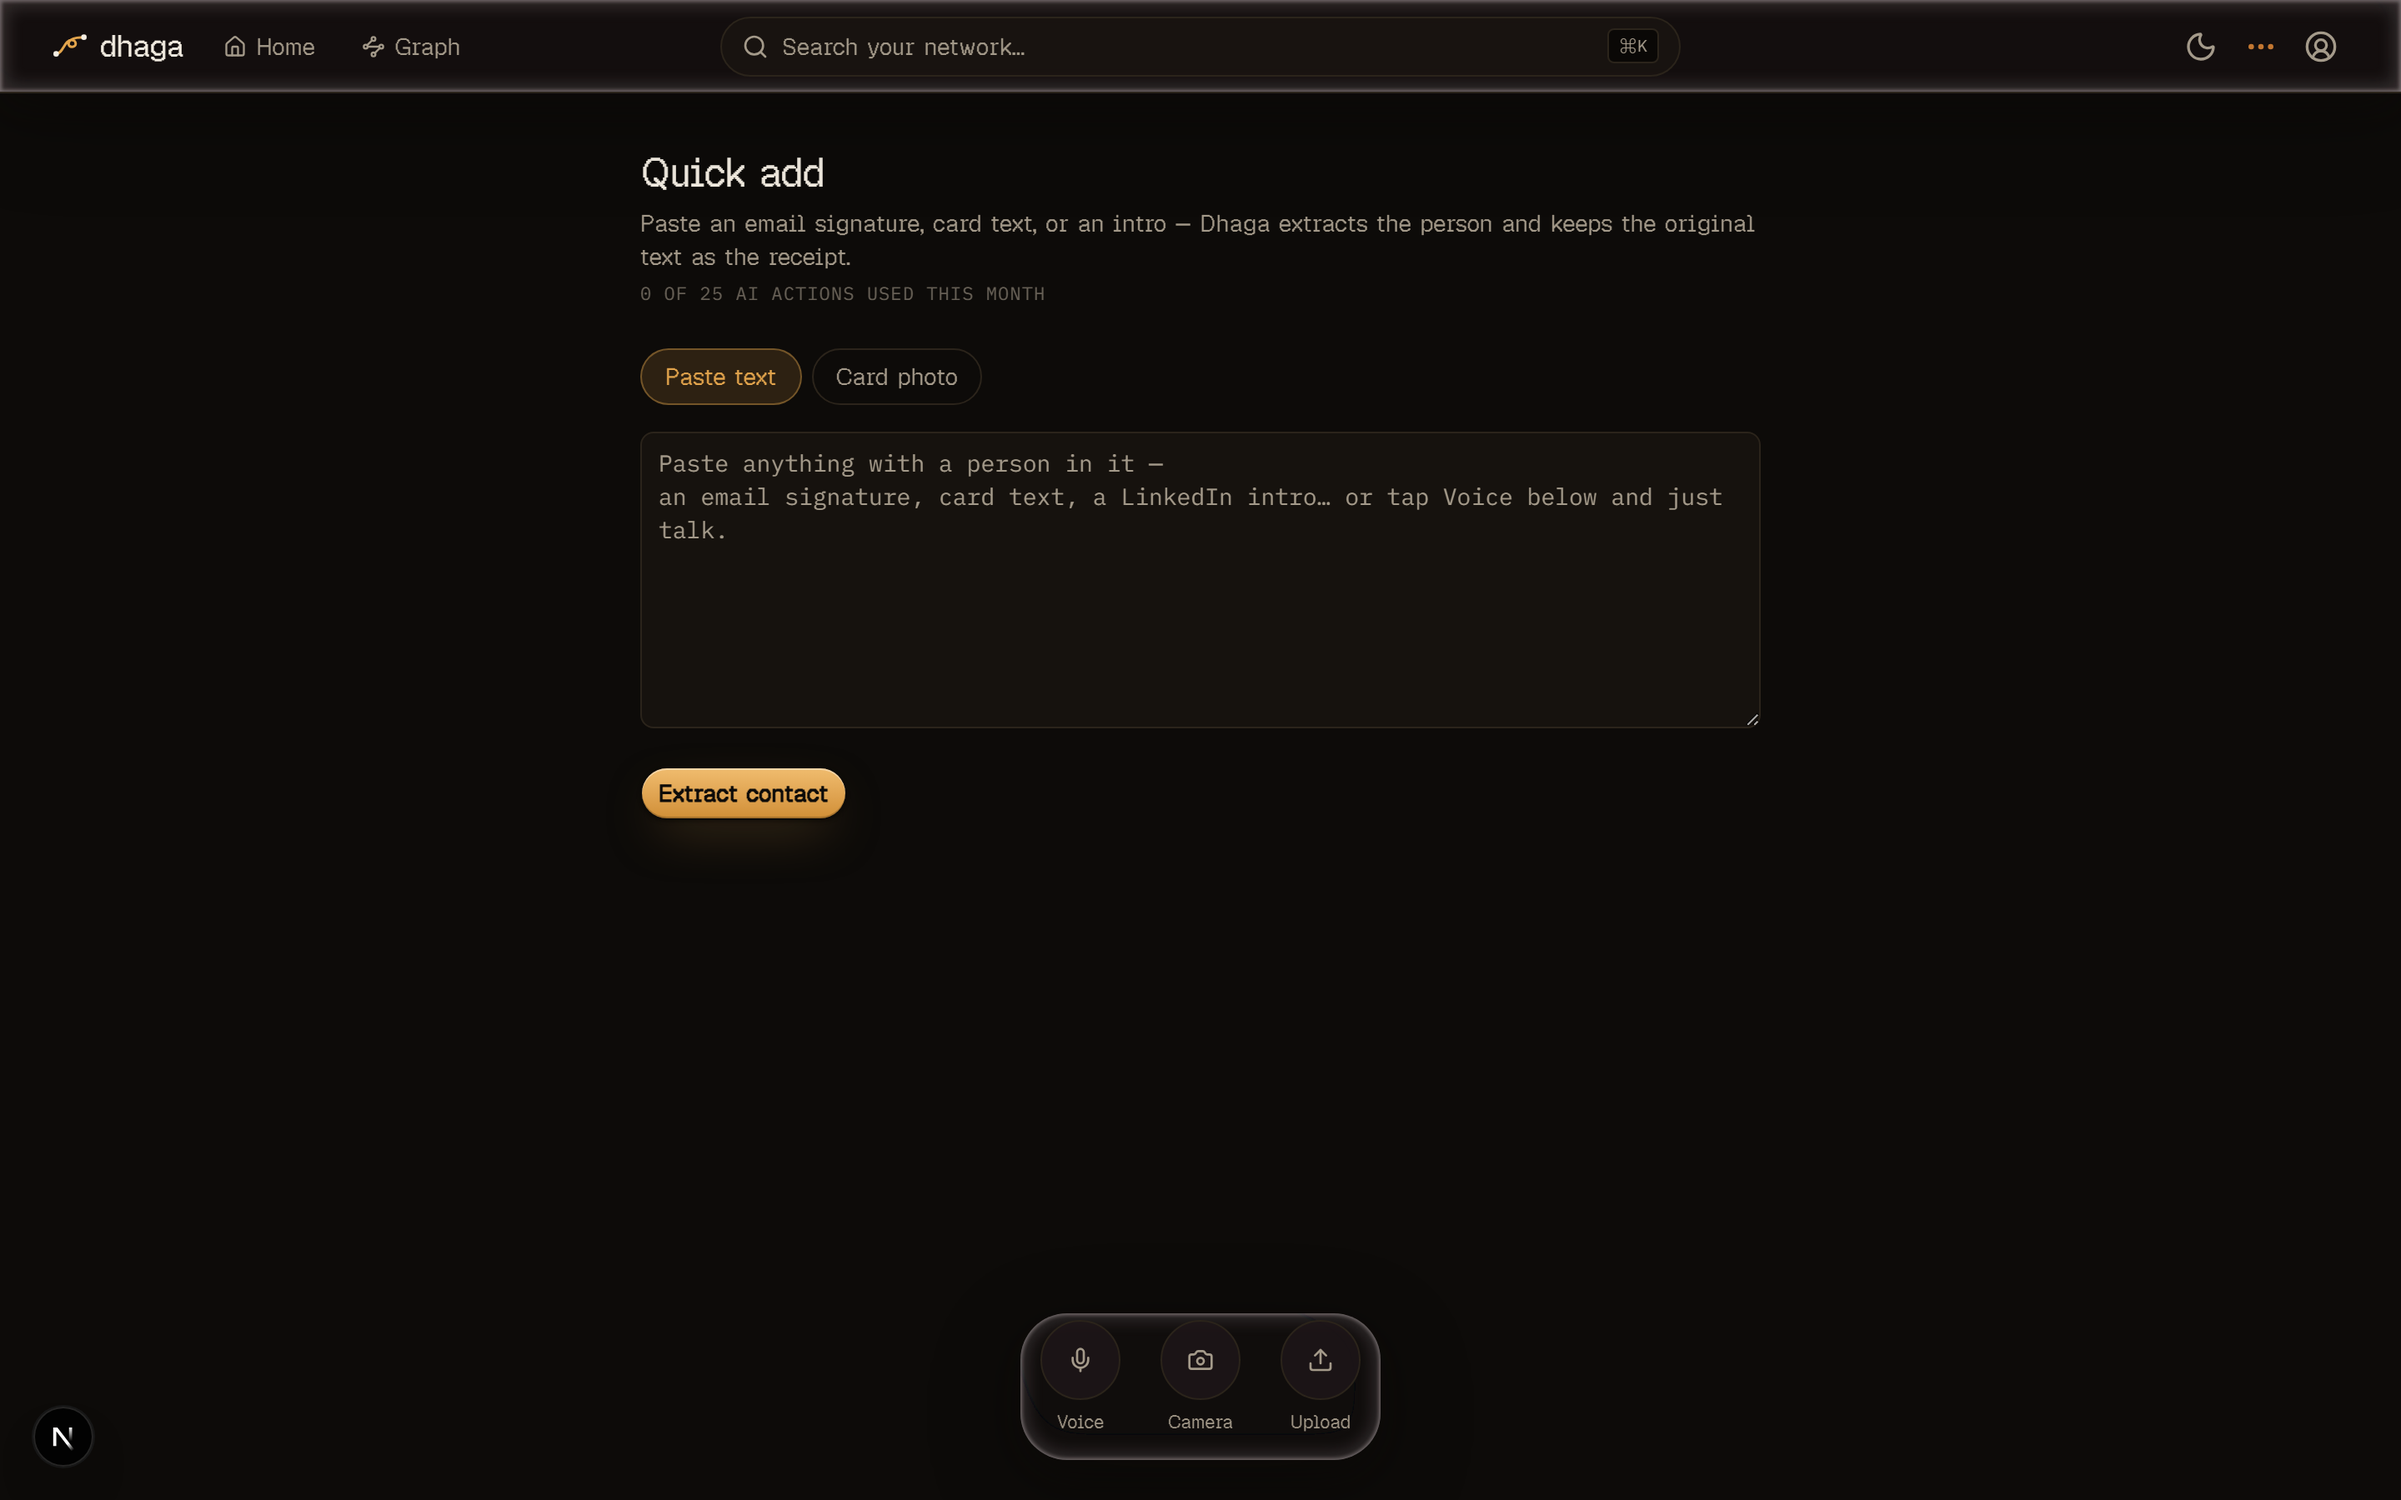
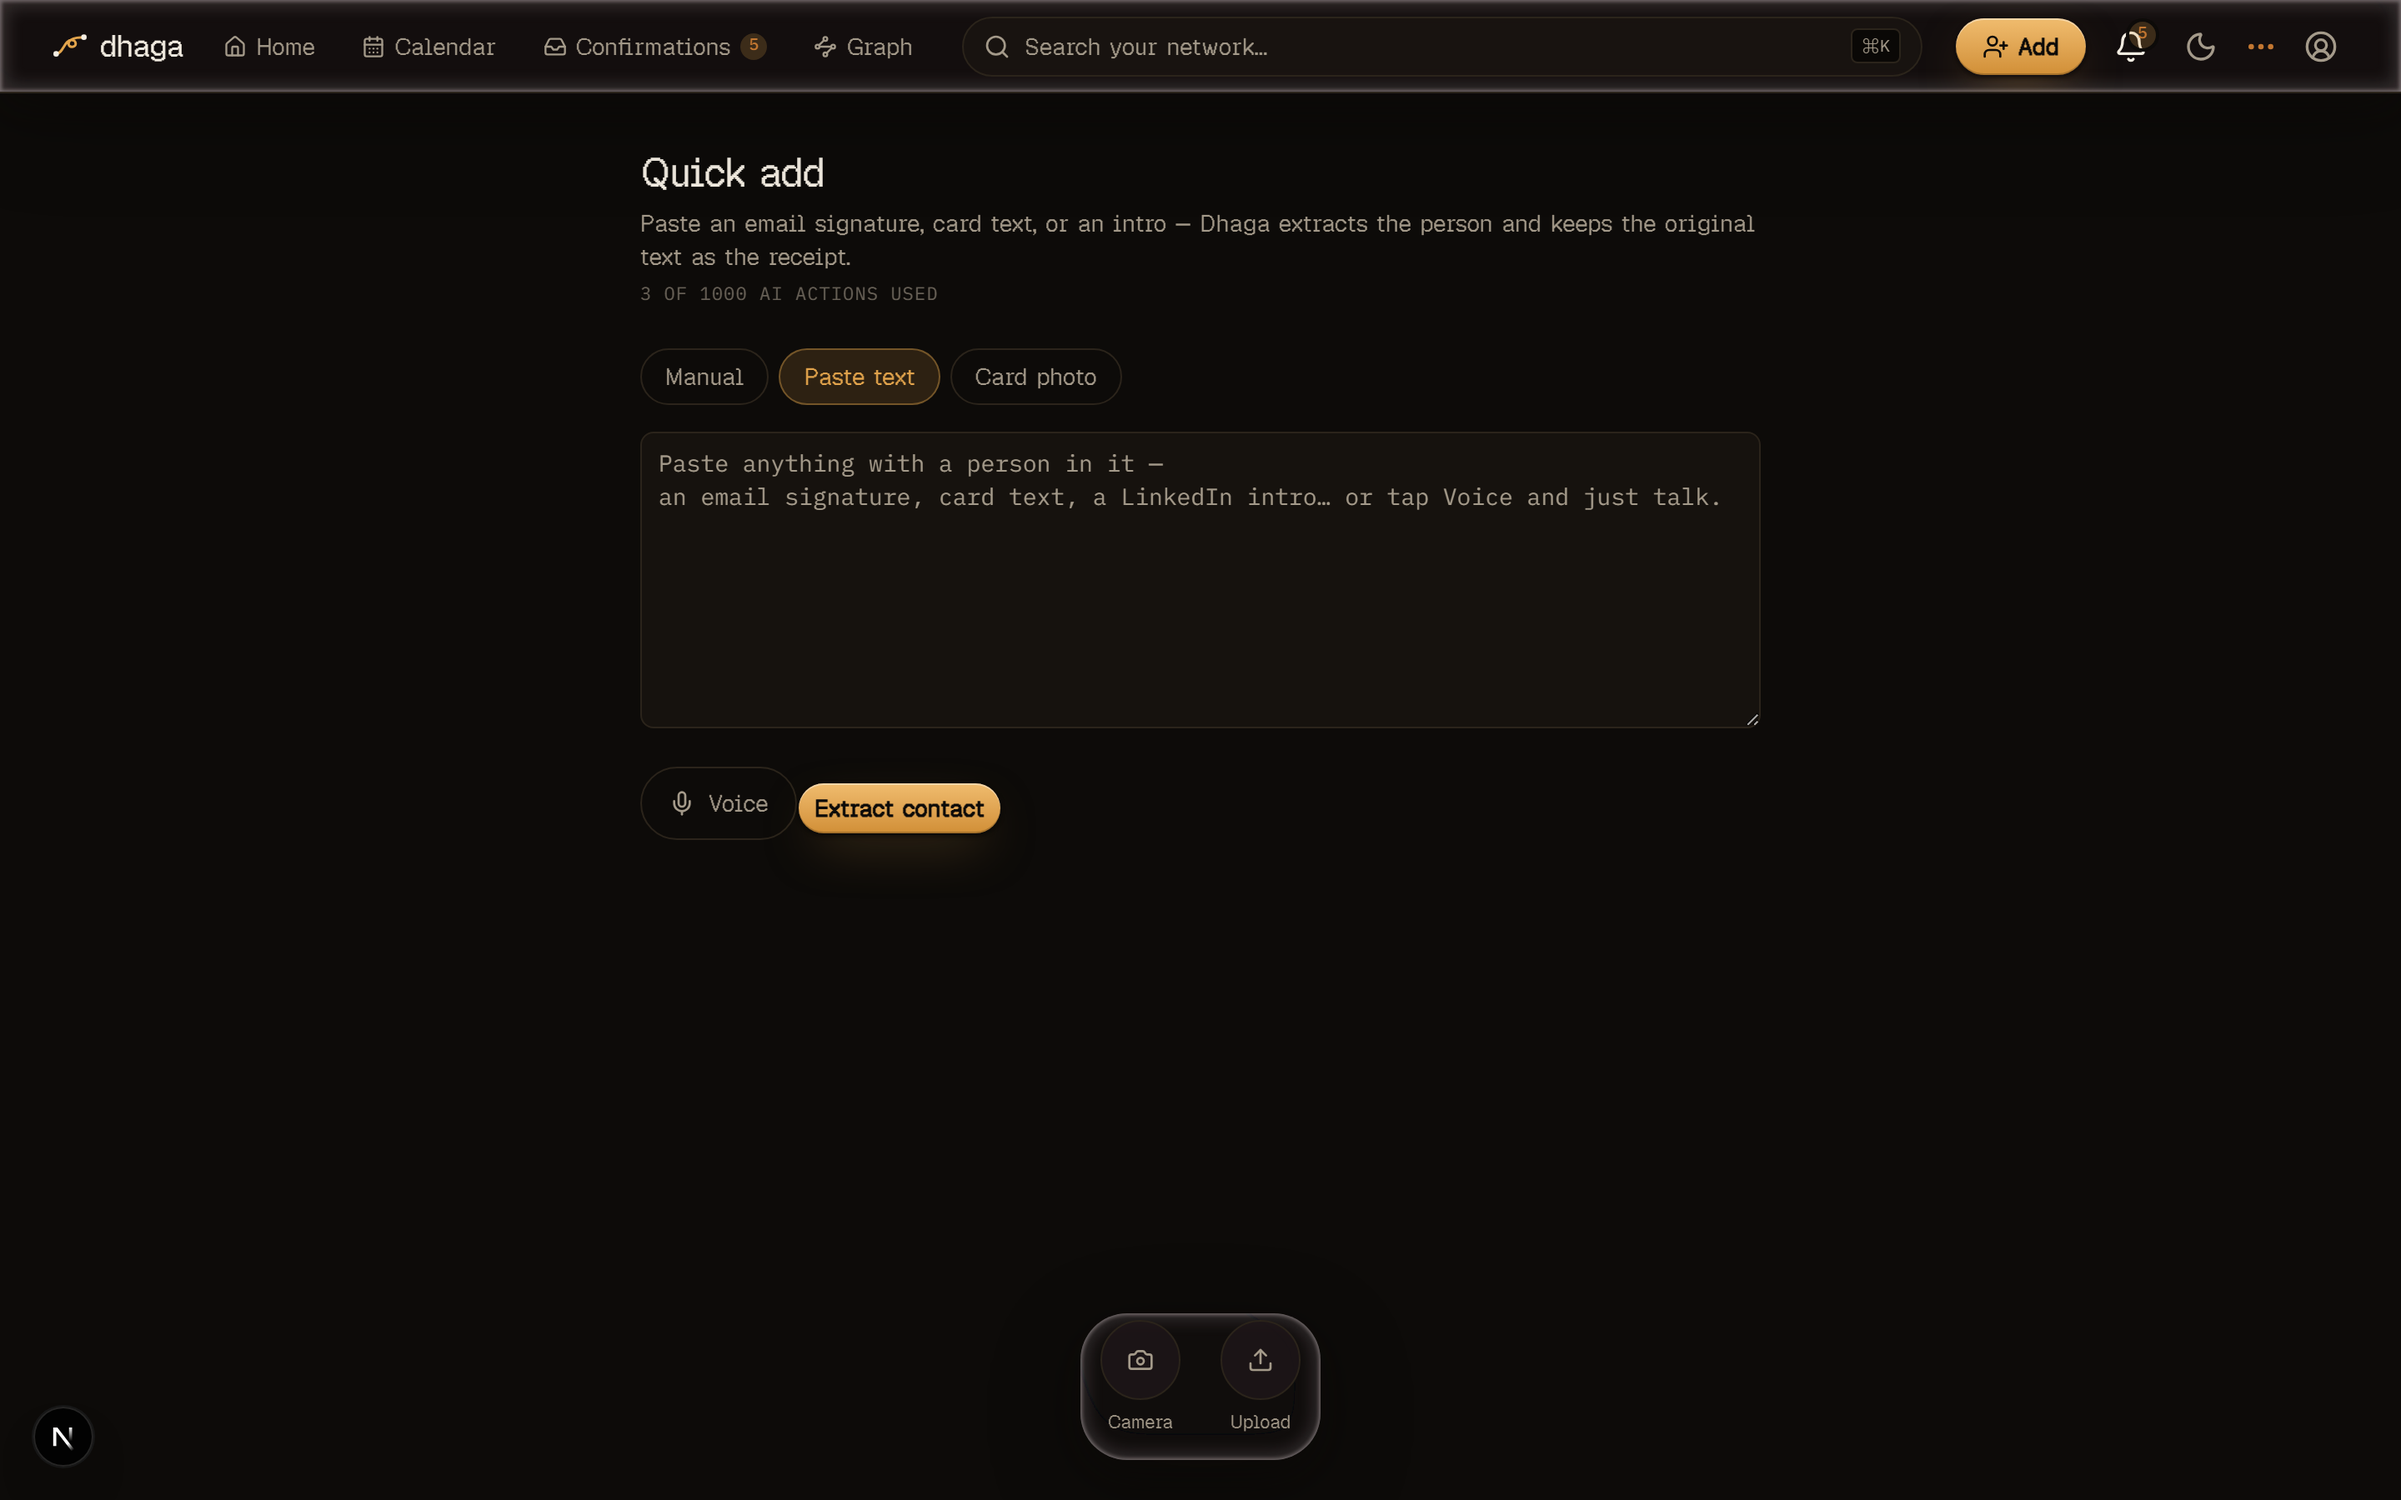
docs(web): consolidated user-guide pass for the shipped epics (#110–#118)
One docs pass covering the features that deferred their docs to a single
consolidated update, plus fresh Playwright screenshots.

- guide/calendar.mdx (NEW): the /app/calendar follow-ups view — month/list,
  drag-to-reschedule, unscheduled tray, details dialog, reminder bell + opt-in
  email; wired into guide/index.mdx + meta.json (#110)
- guide/notes-and-facts.mdx + guide/confirmations.mdx: note capture — free text
  classified as a note about an existing person, matched & attached; the inline
  "Who is this about?" card (pick a candidate or create a new person). Corrected
  to reflect that note_subject renders inline at capture, not in the inbox (#118)
- guide/capturing-people.mdx: additive Callout — Dhaga Voice needs WebGPU; iOS
  Safari shows a clean "type it in instead" fallback (#113); + manual-hub shot
- guide/search-and-ask.mdx: source-contacts right-rail screenshot (#112)
- roadmap/checklist.mdx: re-synced to docs/checklist.md (stale since #107) and
  added #116 manual hub + #118 note capture entries (both mirrored)
- scripts/capture-docs-screenshots.mjs: new capture steps (calendar, manual hub,
  ask rail, note-subject, event dialog) + re-shot quick-add-paste (Manual is now
  the default tab)

diff --git a/docs/checklist.md b/docs/checklist.md
@@ -87,6 +87,8 @@ Legend: **(M#)** = BRD MVP feature · **(v1.x)** = BRD roadmap phase
 - [x] Manual add-contact form (no extraction path)
 - [x] Quick-add reachable from the app nav on every screen — a global **Add** button (`NavQuickAdd`) opens the shared capture→review→save dialog (`QuickAddForm`) from any `/app` screen, the same flow the home dock uses; the fuller `/app/quick-add` page stays linked from the nav "More" menu. Built 2026-07-27 (web); mobile parity pending. **Known follow-up:** the nav dialog passes an empty events list, so attach-to-event is empty from the nav until the app layout threads the user's events through — event-attach still works from the home dock and `/app/quick-add`.
 - [x] Manual entry on every capture screen — a "Prefer to type it in? Add manually" affordance in `CaptureForm`, shown under **both** paste-text and card-photo modes, swaps to a blank `ContactForm` and saves as a normal manual contact (no extraction). Built 2026-07-27 (web); mobile parity pending.
+- [x] Manual quick-add hub — the shared capture dialog opens on a **Manual** tab by default (no AI, no API key) with three sub-tabs: add a **person**, record a **relationship** between two existing people, or log a **fact / follow-up** against a contact (`QuickAddManual` + `manual/` form builders, `capture-mode.ts` tab routing). Built 2026-07-28 (web); mobile parity pending
+- [x] Note capture — a pasted free-text **note about an existing person** (e.g. "Met Anchit, discussed the round") is recognised by the same single metered `contact_parse` call that parses contact fields (no extra AI round-trip; `captureExtractionSchema` folds an `isNoteAboutPerson`/`subjectName`/`noteBody` classification onto the extraction), its subject is matched against your contacts, then the note is **attached silently on a confident single match** or routed to a **confirmation** — asking which contact it belongs to when several match, or offering to create one when none do — never guessing the subject (`packages/core/src/capture/route.ts`, a pure unit-tested router). Built 2026-07-28 (web); mobile parity pending
 - [x] People list with filter + contact detail page
 - [x] People bulk actions — multi-select on `/app/people` (per-row checkbox + select-all-on-page, selection persists across pagination) with a bulk bar: **Merge**, **Add to company**, **Tag** (add or remove), **Star**/**Unstar**, and **Delete** (forget, full cascade). Built 2026-07-27 (web); mobile parity pending
 - [x] Company auto-link: extracted company name → find-or-create `companies` row
